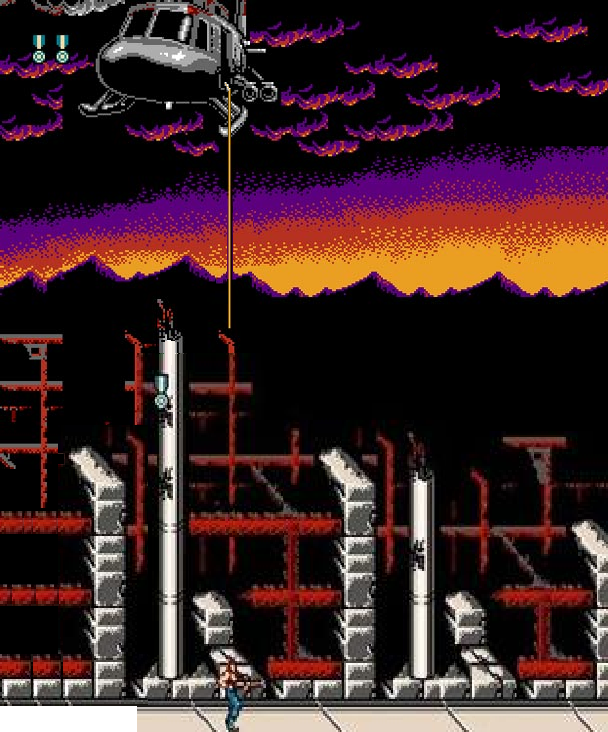
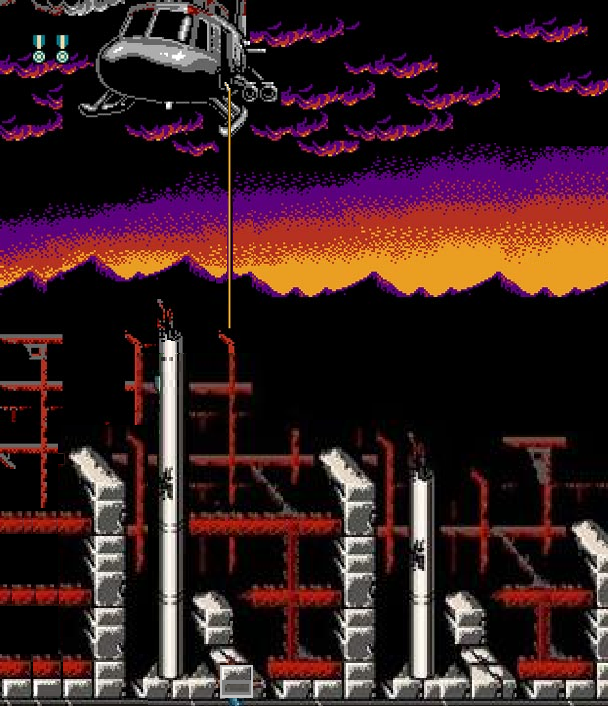
Mario Contra 8: level 2.1 - fire

diff --git a/other/mario-contra/mariocontra.js b/other/mario-contra/mariocontra.js
@@ -14,13 +14,14 @@ class MainScene extends Phaser.Scene {
         this.mainCharacterPic = 'commando';
         this.mainCharacterRunningPic = 'commando2';
         this.backgroundColor = 0x507fff;
+        this.bulletPic = 'files/bullet.png';
     }
 
     preload() {
         this.load.image('ground', 'files/sprite.png');
         this.load.image('commando', 'files/commando.png');
         this.load.image('commando2', 'files/commando2.png');
-        this.load.image('bullet', 'files/bullet.png');
+        this.load.image('bullet', this.bulletPic);
         this.load.image('brick', 'files/brick.png');
         this.load.image('kupa', 'files/koopa.png');
         this.currentCommandoTexture = 'kupa';

diff --git a/other/mario-contra/level2.1.js b/other/mario-contra/level2.1.js
@@ -1,15 +1,18 @@
 class Scene2_1 extends MainScene {
     constructor() {
         super('Scene2.1');
-        this.mainCharacterPic = 'kupa';
-        this.mainCharacterRunningPic = 'kupa';
+        this.mainCharacterPic = 'kupaR1';
+        this.mainCharacterRunningPic = 'kupaR2';
+        this.bulletPic = 'files/fire.png';
         this.backgroundColor = 0;
     }
 
     preload(){
         super.preload();
         this.load.image('road', 'files/croad.png');
-        this.currentCommandoTexture = 'kupa';
+        this.load.image('kupaR1', 'files/koopaR1.png');
+        this.load.image('kupaR2', 'files/koopaR2.png');
+        this.currentCommandoTexture = 'kupaR2';
     }
 
     create(){
